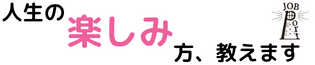
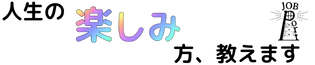
modify html and change pics

Changed region(s): [[0.0, 0.0, 0.6571, 0.9846], [0.6857, 0.0308, 0.9714, 0.9846]]

diff --git a/index.html b/index.html
@@ -346,10 +346,10 @@
             </div> -->
             <div
                 class="flex w-o-568 ml-auto md:mr-auto justify-end items-center mb-o-24 md:mb-o-8 md:justify-between md:w-o-620">
-                <img src="./jp-content/img/feature_img01-b.webp" alt="" class="w-o-263"> <span class="text-33"></span>
-                <img src="./jp-content/img/feature_img02-b.webp" alt="" class="w-o-263">
+                <img src="./jp-content/img/mikeiken.png" alt="" class="w-o-263"> <span class="text-33"></span>
+                <img src="./jp-content/img/jinsei.png" alt="" class="w-o-263">
             </div>
-            <p class="text-center text-38 md:text-32">ができる！</p>
+            <p class="text-center text-38 md:text-32">できる！</p>
         </div>
         <ul>
             <li class="mb-o-80 last:mb-0">
